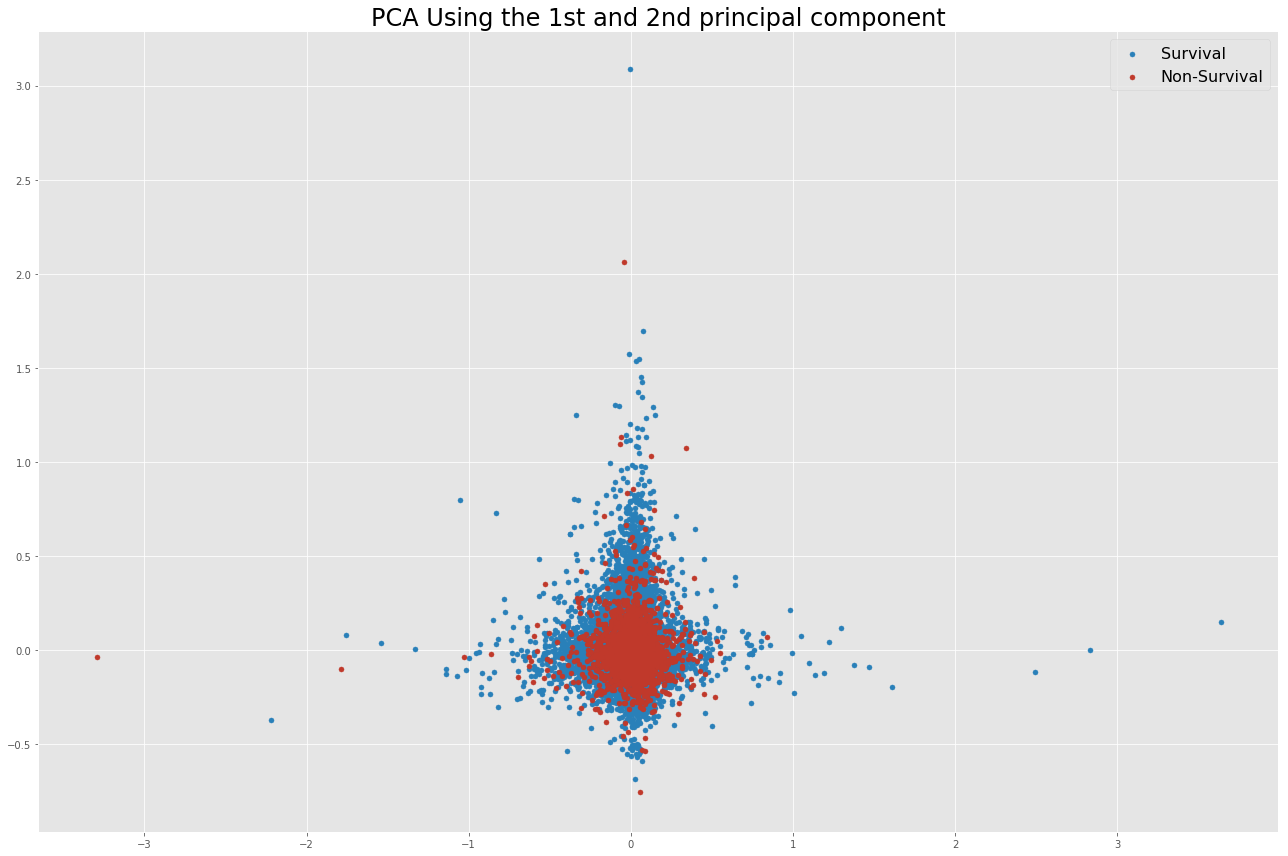
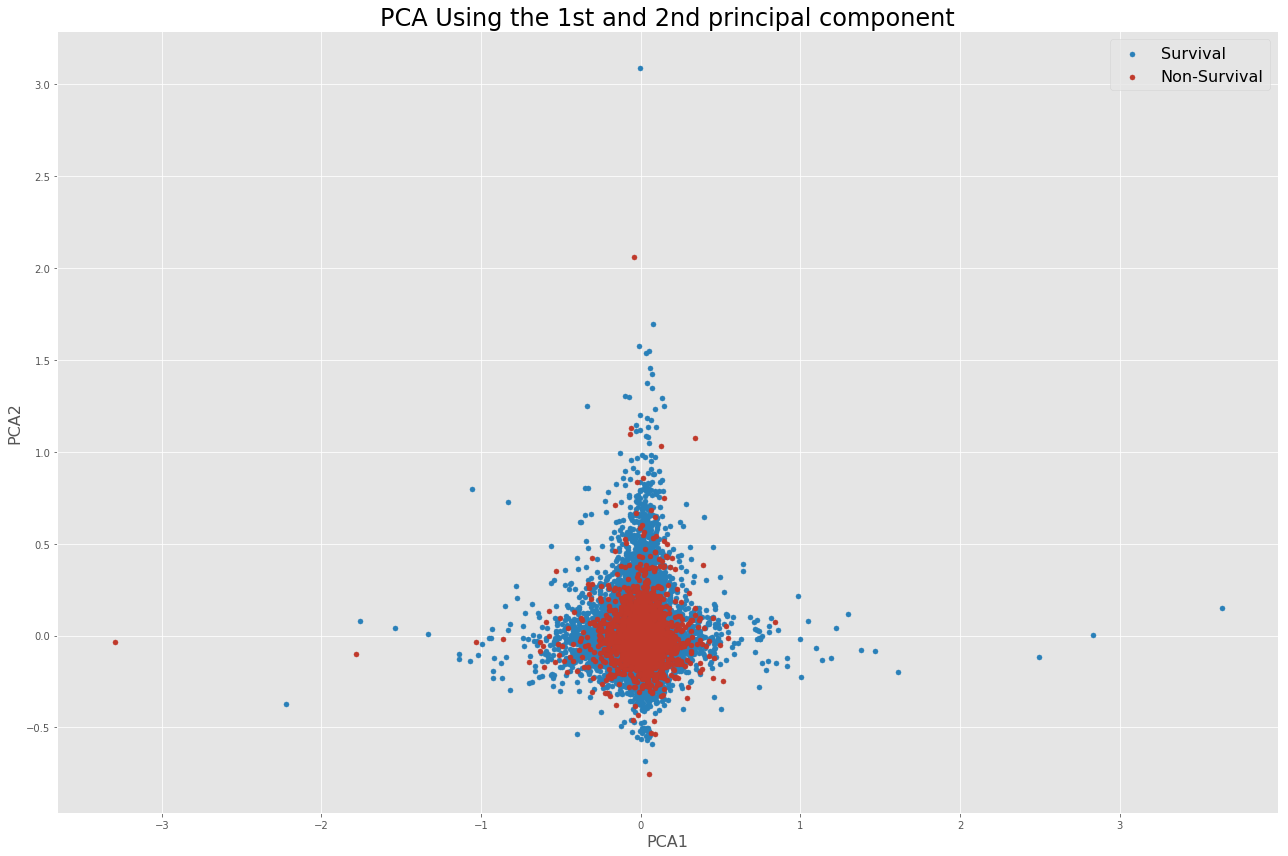
fixed plots and figures

Changed region(s): [[0.0, 0.0304, 0.9938, 1.0], [0.3416, 0.4252, 0.6522, 0.8808], [0.2795, 0.0, 0.7453, 0.0304]]

diff --git a/_posts/2017-06-26-gsoc-recap.md b/_posts/2017-06-26-gsoc-recap.md
@@ -145,7 +145,7 @@ Using [stratified 10-fold cross-validation]([1]), the [auROC](https://en.wikiped
 |                     | Hospital mortality |
 | Logistic Regression | 84.64              |
 | Linear SVM          | 84.56              |
-| Random guess         |          0.50           |        
+| Random guess         |          50.00           |        
 | Logistic Regression (sklearn)         |  84.64              |
 | Linear SVM (sklearn)         |    84.56              |    
 | XGBoost             | 87.60              |  
